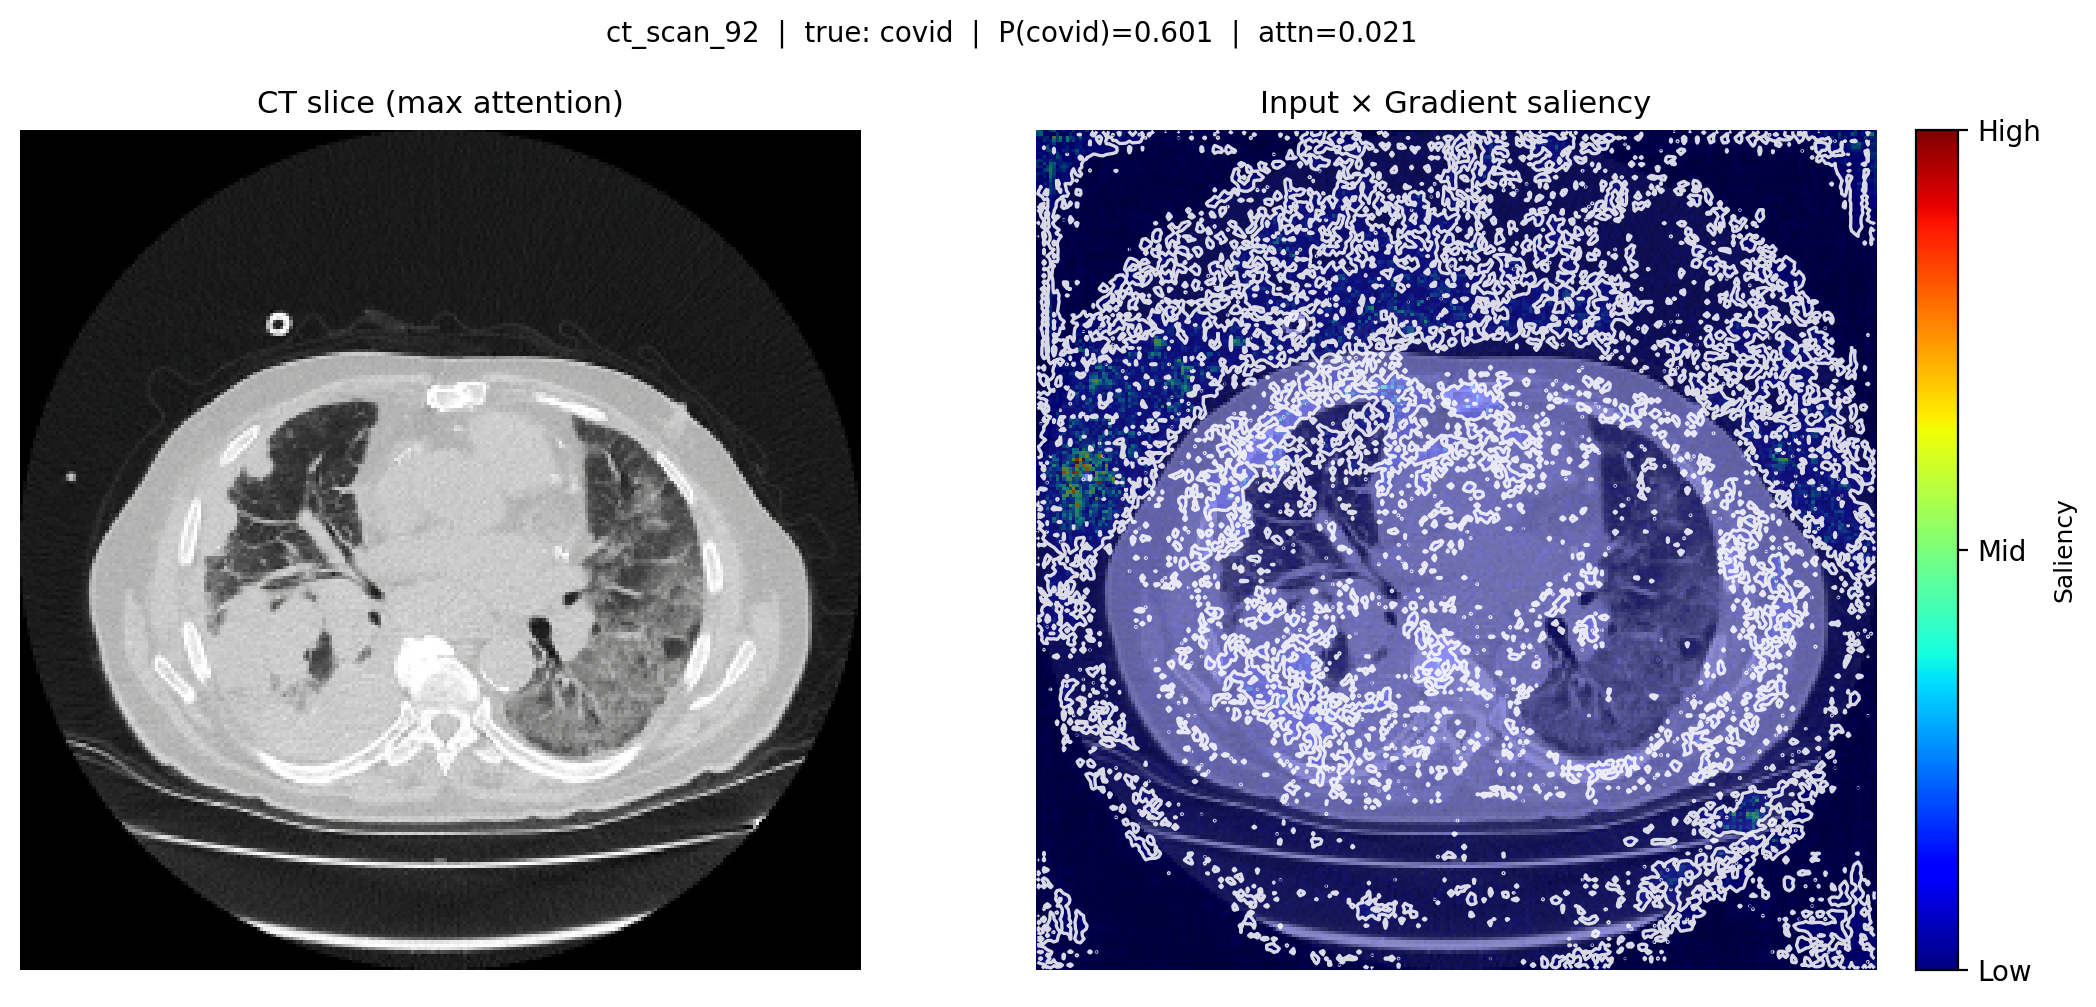
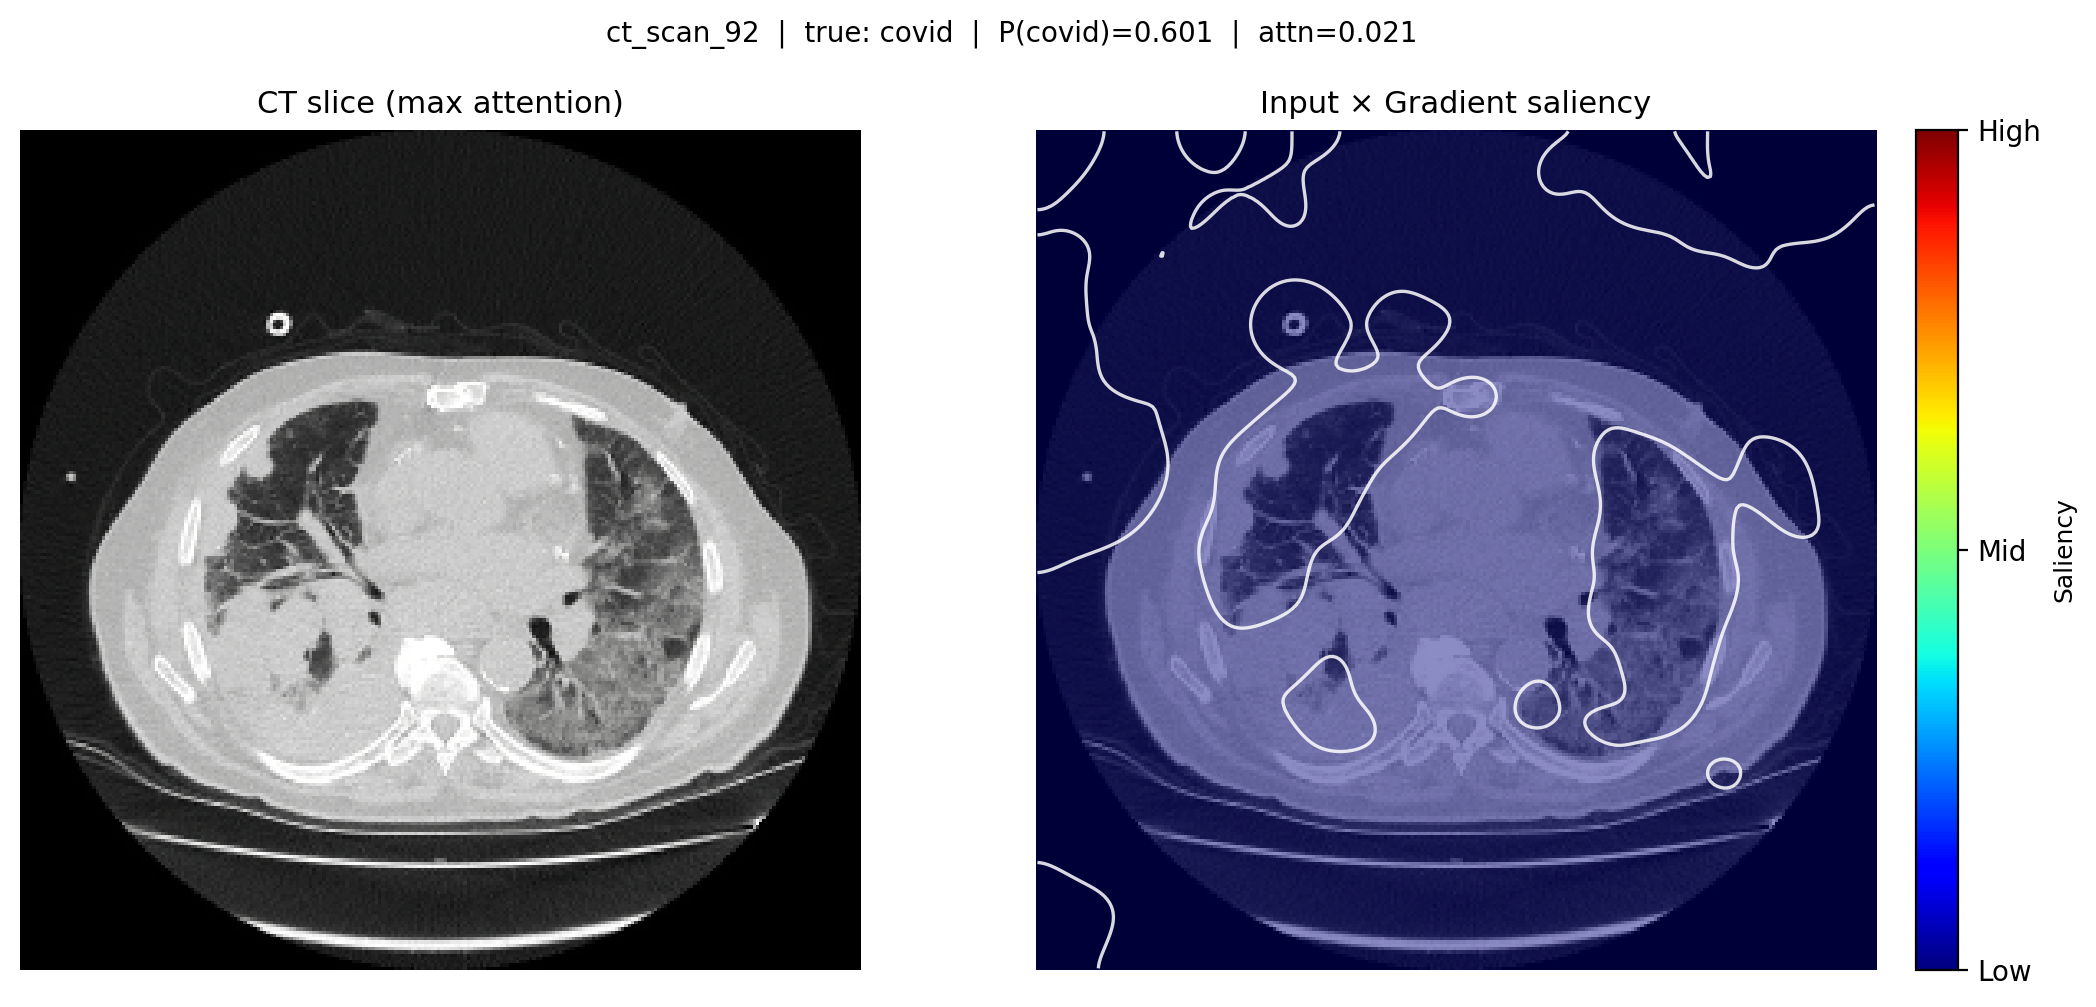
smoother maps

Changed region(s): [[0.4962, 0.1231, 0.8993, 0.9851], [0.4962, 0.862, 0.5272, 0.9851]]

diff --git a/scripts/run_gradcam_pp.py b/scripts/run_gradcam_pp.py
@@ -39,7 +39,7 @@ from src.dataset import (  # noqa: E402
     get_val_transforms,
 )
 from src.gradcam_pp import (  # noqa: E402
-    mil_input_gradient,
+    mil_gradcam_pp,
     overlay_heatmap_on_rgb,
     save_individual_saliency,
     save_side_by_side,
@@ -198,7 +198,7 @@ def run_top_n_mode(args, cfg, model, device) -> None:
             slice_idx = int(attn0[0].argmax().item())
 
             try:
-                rgb, overlay, logits, attn, sal_np = mil_input_gradient(
+                rgb, overlay, logits, attn, sal_np = mil_gradcam_pp(
                     model, x, mask,
                     slice_index=slice_idx,
                     target_class=class_label,
@@ -284,7 +284,7 @@ def main() -> None:
     else:
         slice_idx = int(args.slice_index)
 
-    rgb, overlay, logits, attn, _ = mil_input_gradient(
+    rgb, overlay, logits, attn, _ = mil_gradcam_pp(
         model, x, mask,
         slice_index=slice_idx,
         target_class=target_class,
